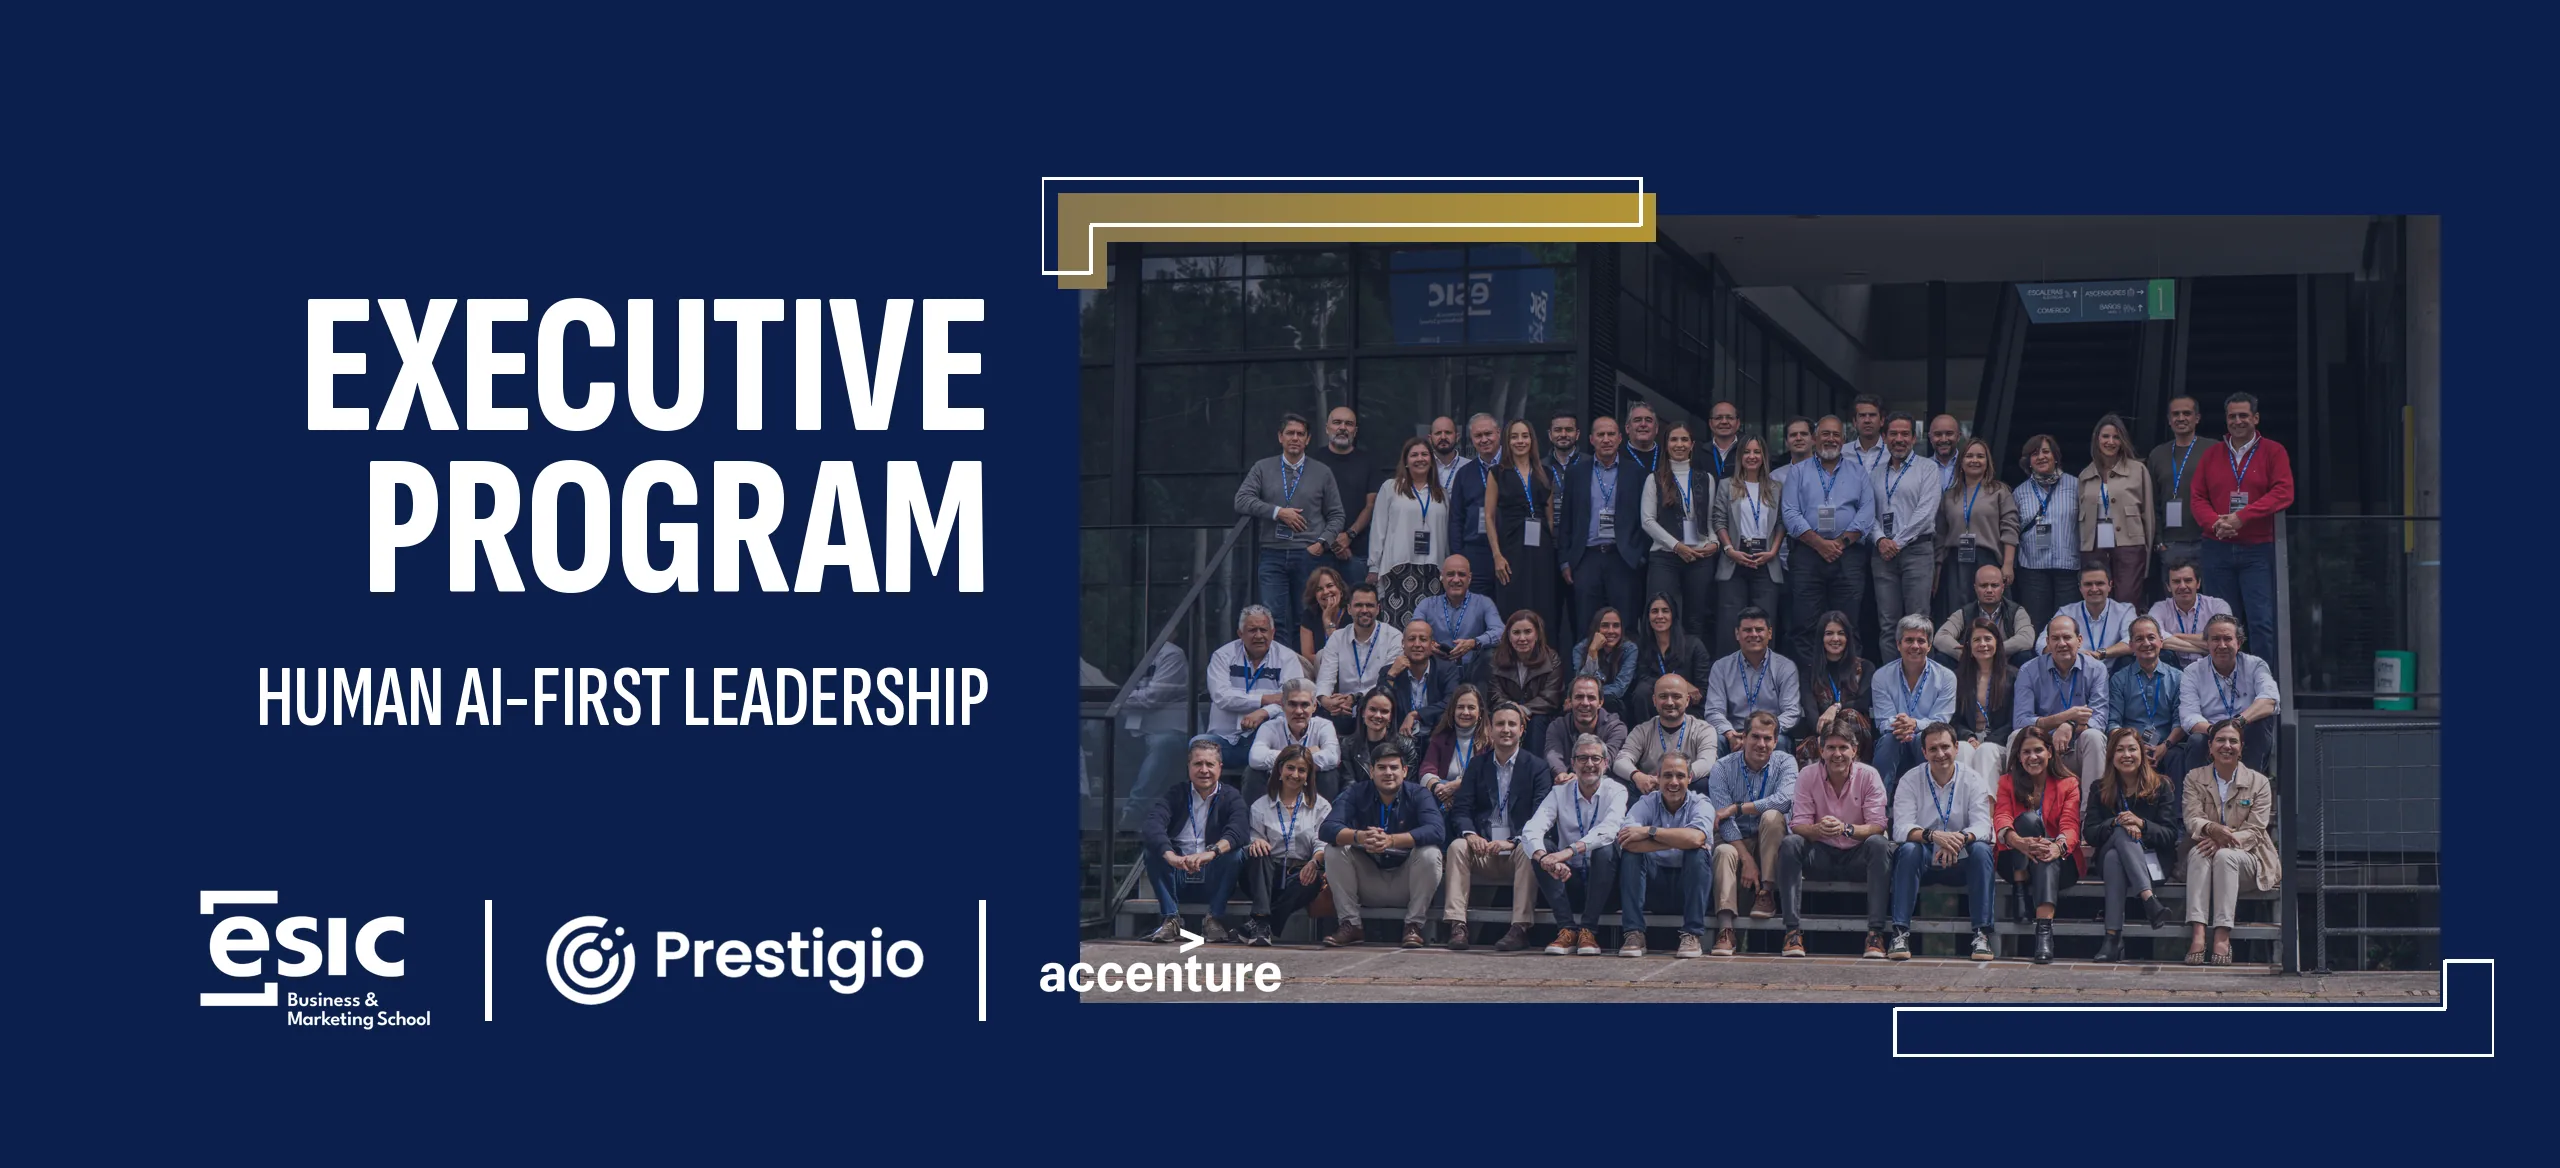
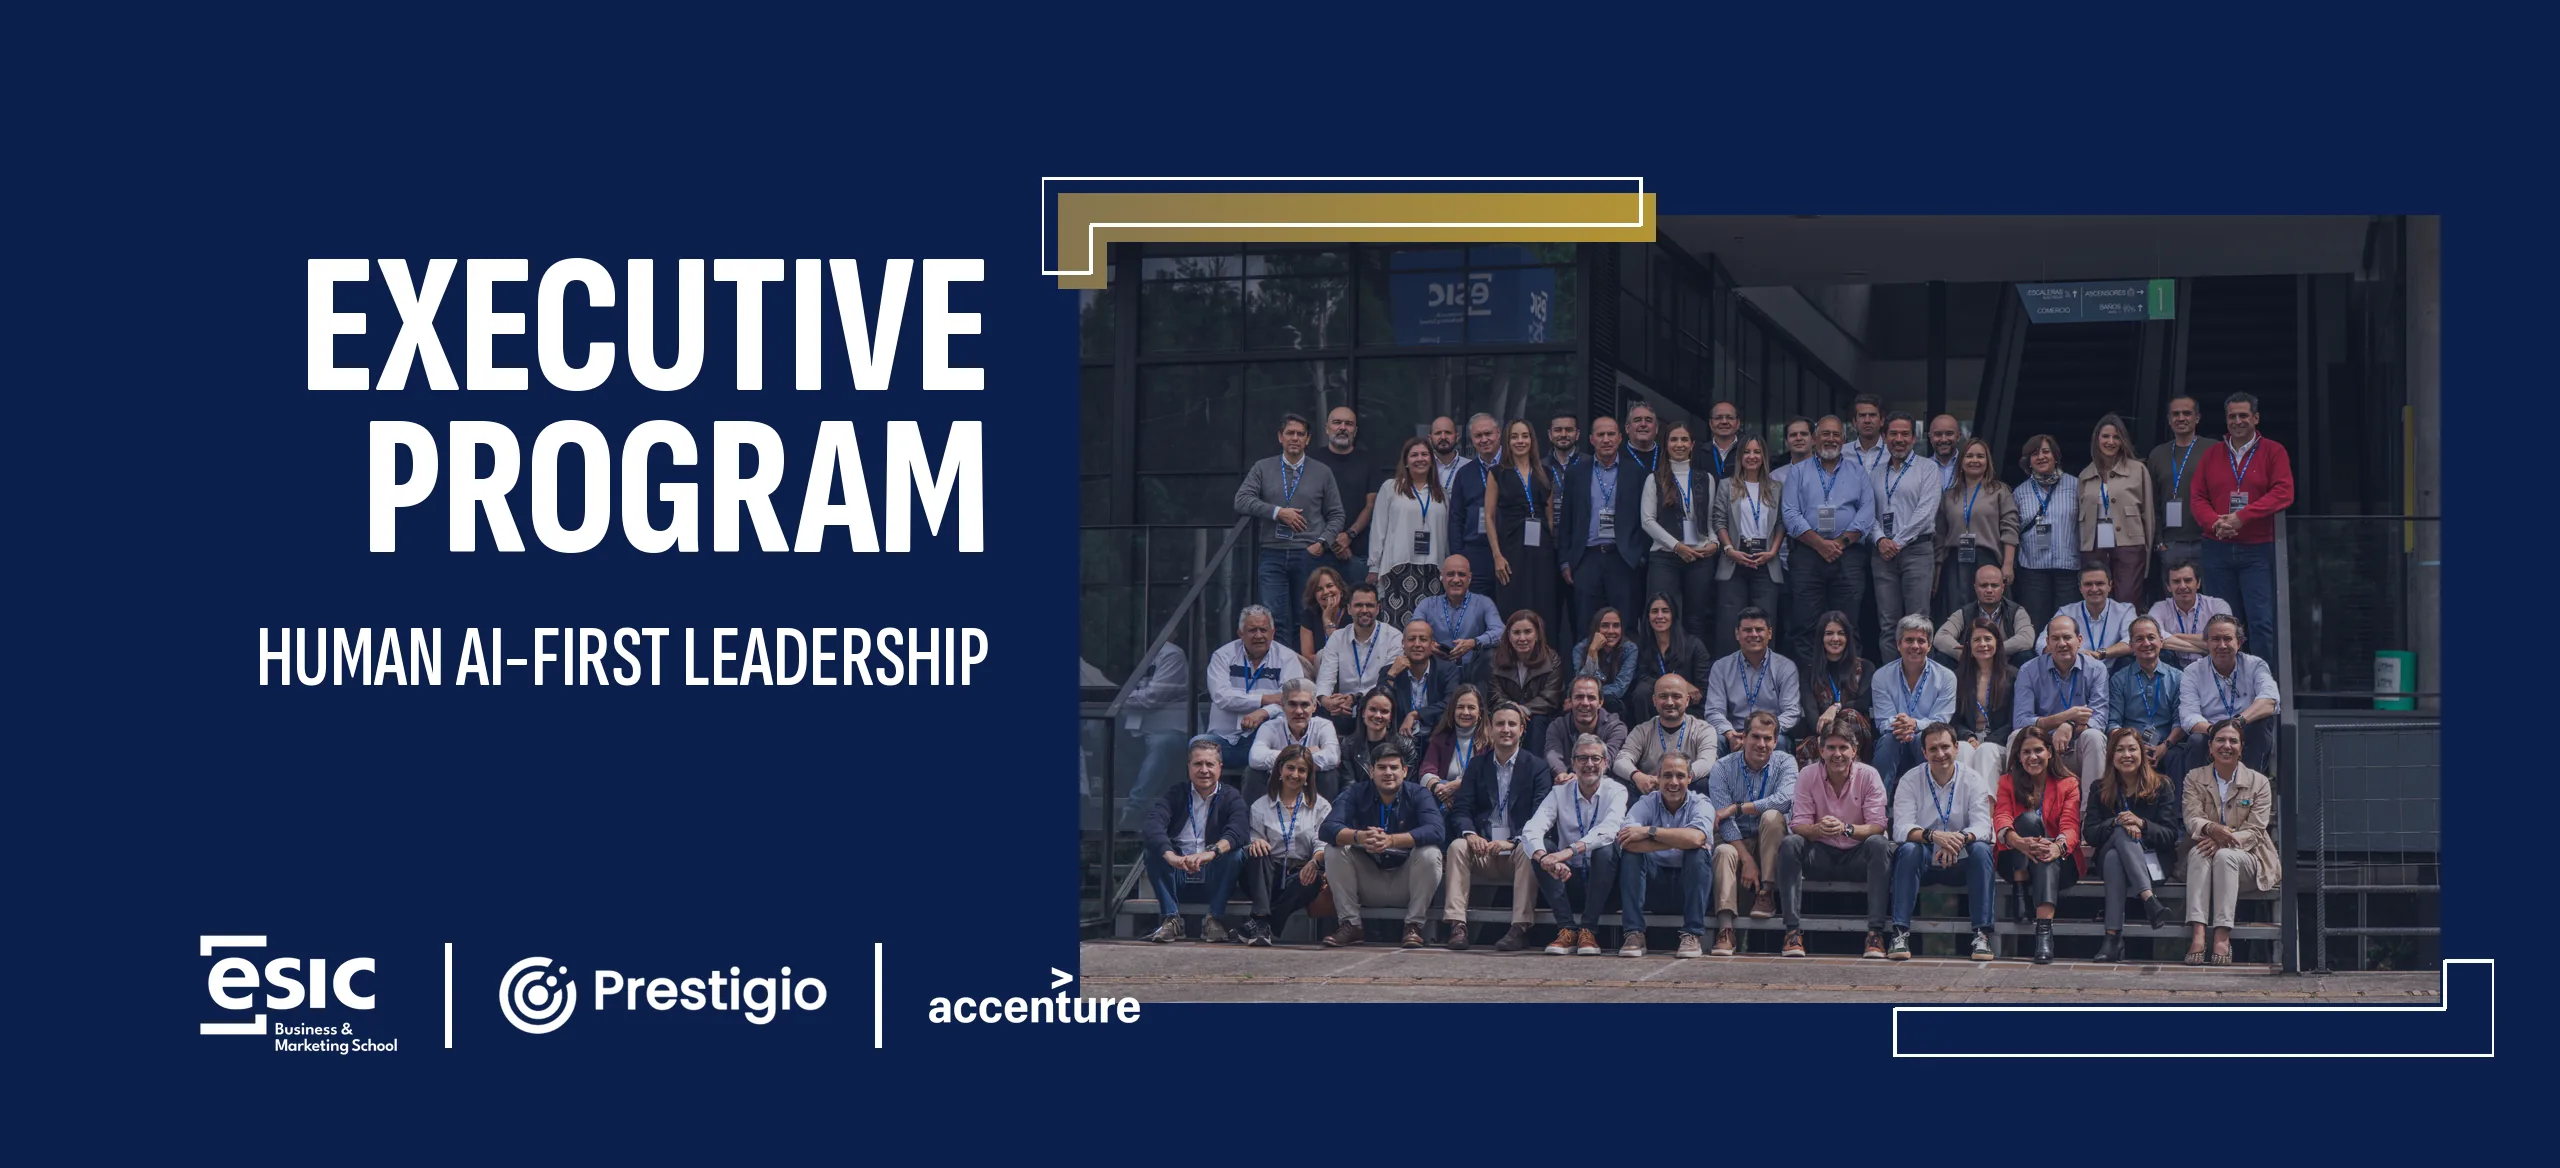
fix(executive): el CTA del hero se estiraba a todo el ancho y sin aire
El boton salia como una barra dorada de lado a lado, encima de la foto: la
regla '.exec__hero-banner a { display:block; width:100% }' era para el enlace
que envuelve la imagen y le pegaba tambien al CTA. Se limita a ese enlace con
la clase .exec__hero-link.

Y se reparte el espacio del banner para que el boton respire:
- Desktop: el bloque de texto sube (TOP 250 -> 210) y los logos bajan y se
  achican (fila de 140 a 120px de alto). Queda una banda libre de 684 a 936px
  y el CTA va centrado ahi, con ~87px de aire arriba y abajo.
- Mobile: la foto baja a 1560 y los logos a 2860, dejando la banda 1139-1505.
  El boton queda centrado con ~90px de aire por lado.

Changed region(s): [[0.0938, 0.2158, 0.4062, 0.6164], [0.0625, 0.7397, 0.5, 0.9247]]

diff --git a/design/executive-banner/build_banner.py b/design/executive-banner/build_banner.py
@@ -205,19 +205,19 @@ f_head = fit("", FONT_BOLD, 200, HEAD_WEIGHT)
 f_sub = fit("", FONT_LIGHT, 86, SUB_WEIGHT)
 
 # Solo titular + subtitulo. Sin la linea de claims (meses / Madrid / año).
-TOP = 250
+TOP = 210
 draw_right("EXECUTIVE", f_head, TOP)
 # Singular: es UN programa (Digital Business Transformation), no la oferta
 # completa de executive programs.
 draw_right("PROGRAM", f_head, TOP + 162)
 draw_right("HUMAN AI-FIRST LEADERSHIP", f_sub, TOP + 397)
+# Entre el subtitulo y los logos queda libre la banda 755-870: ahi cae el CTA.
 
 # --------------------------------------------------------------------- logos
 # Holgura abajo: la barra de stats de la pagina monta sobre el borde inferior
 # del banner, asi que los logos no pueden quedar pegados al filo.
-# Banda libre 740-860 entre el subtitulo y los logos: ahi va el CTA en HTML.
-LOGO_Y = 890
-LOGO_H = 140
+LOGO_Y = 935
+LOGO_H = 120
 
 
 def load_logo(path, height):
@@ -255,8 +255,8 @@ def draw_logo_row(img, d, items, x_left, y_center, pad, sep_h):
     return x - pad
 
 
-DESKTOP_LOGOS = [("logo-esic.png", 140), ("logo-prestigio.png", 90), ("logo-accenture.png", 64)]
-draw_logo_row(canvas, draw, DESKTOP_LOGOS, 200, LOGO_Y + LOGO_H // 2, 55, 120)
+DESKTOP_LOGOS = [("logo-esic.png", 120), ("logo-prestigio.png", 78), ("logo-accenture.png", 56)]
+draw_logo_row(canvas, draw, DESKTOP_LOGOS, 200, LOGO_Y + LOGO_H // 2, 48, 104)
 
 canvas.save(OUT, quality=95)
 print(f"OK -> {OUT}  {canvas.size}")
@@ -270,7 +270,7 @@ md = ImageDraw.Draw(m)
 
 # La foto de grupo es muy ancha: en vertical va como banda a todo el ancho
 # (menos un margen), no como panel estrecho, o se perdería medio grupo.
-MP_X, MP_Y, MP_W, MP_H = 90, 1480, MW - 180, 1140
+MP_X, MP_Y, MP_W, MP_H = 90, 1560, MW - 180, 1120
 
 
 def draw_center(d, text, font, y, cx, fill=WHITE, tracking=0):
@@ -341,7 +341,7 @@ _widths = [load_logo(os.path.join(HERE, n), h).width for n, h in MOBILE_LOGOS]
 row_w = sum(_widths) + (len(_widths) - 1) * (6 + 2 * MPAD)
 # 2490 y no 2660: la barra blanca de stats monta sobre el borde inferior del
 # banner y los logos quedaban casi pegados a ella en mobile.
-draw_logo_row(m, md, MOBILE_LOGOS, CX - row_w // 2, 2800, MPAD, MSEP_H)
+draw_logo_row(m, md, MOBILE_LOGOS, CX - row_w // 2, 2860, MPAD, MSEP_H)
 
 OUT_M = os.path.join(HERE, "banner-executive-human-ai-first-leadership-mobile.png")
 m.save(OUT_M, quality=95)
